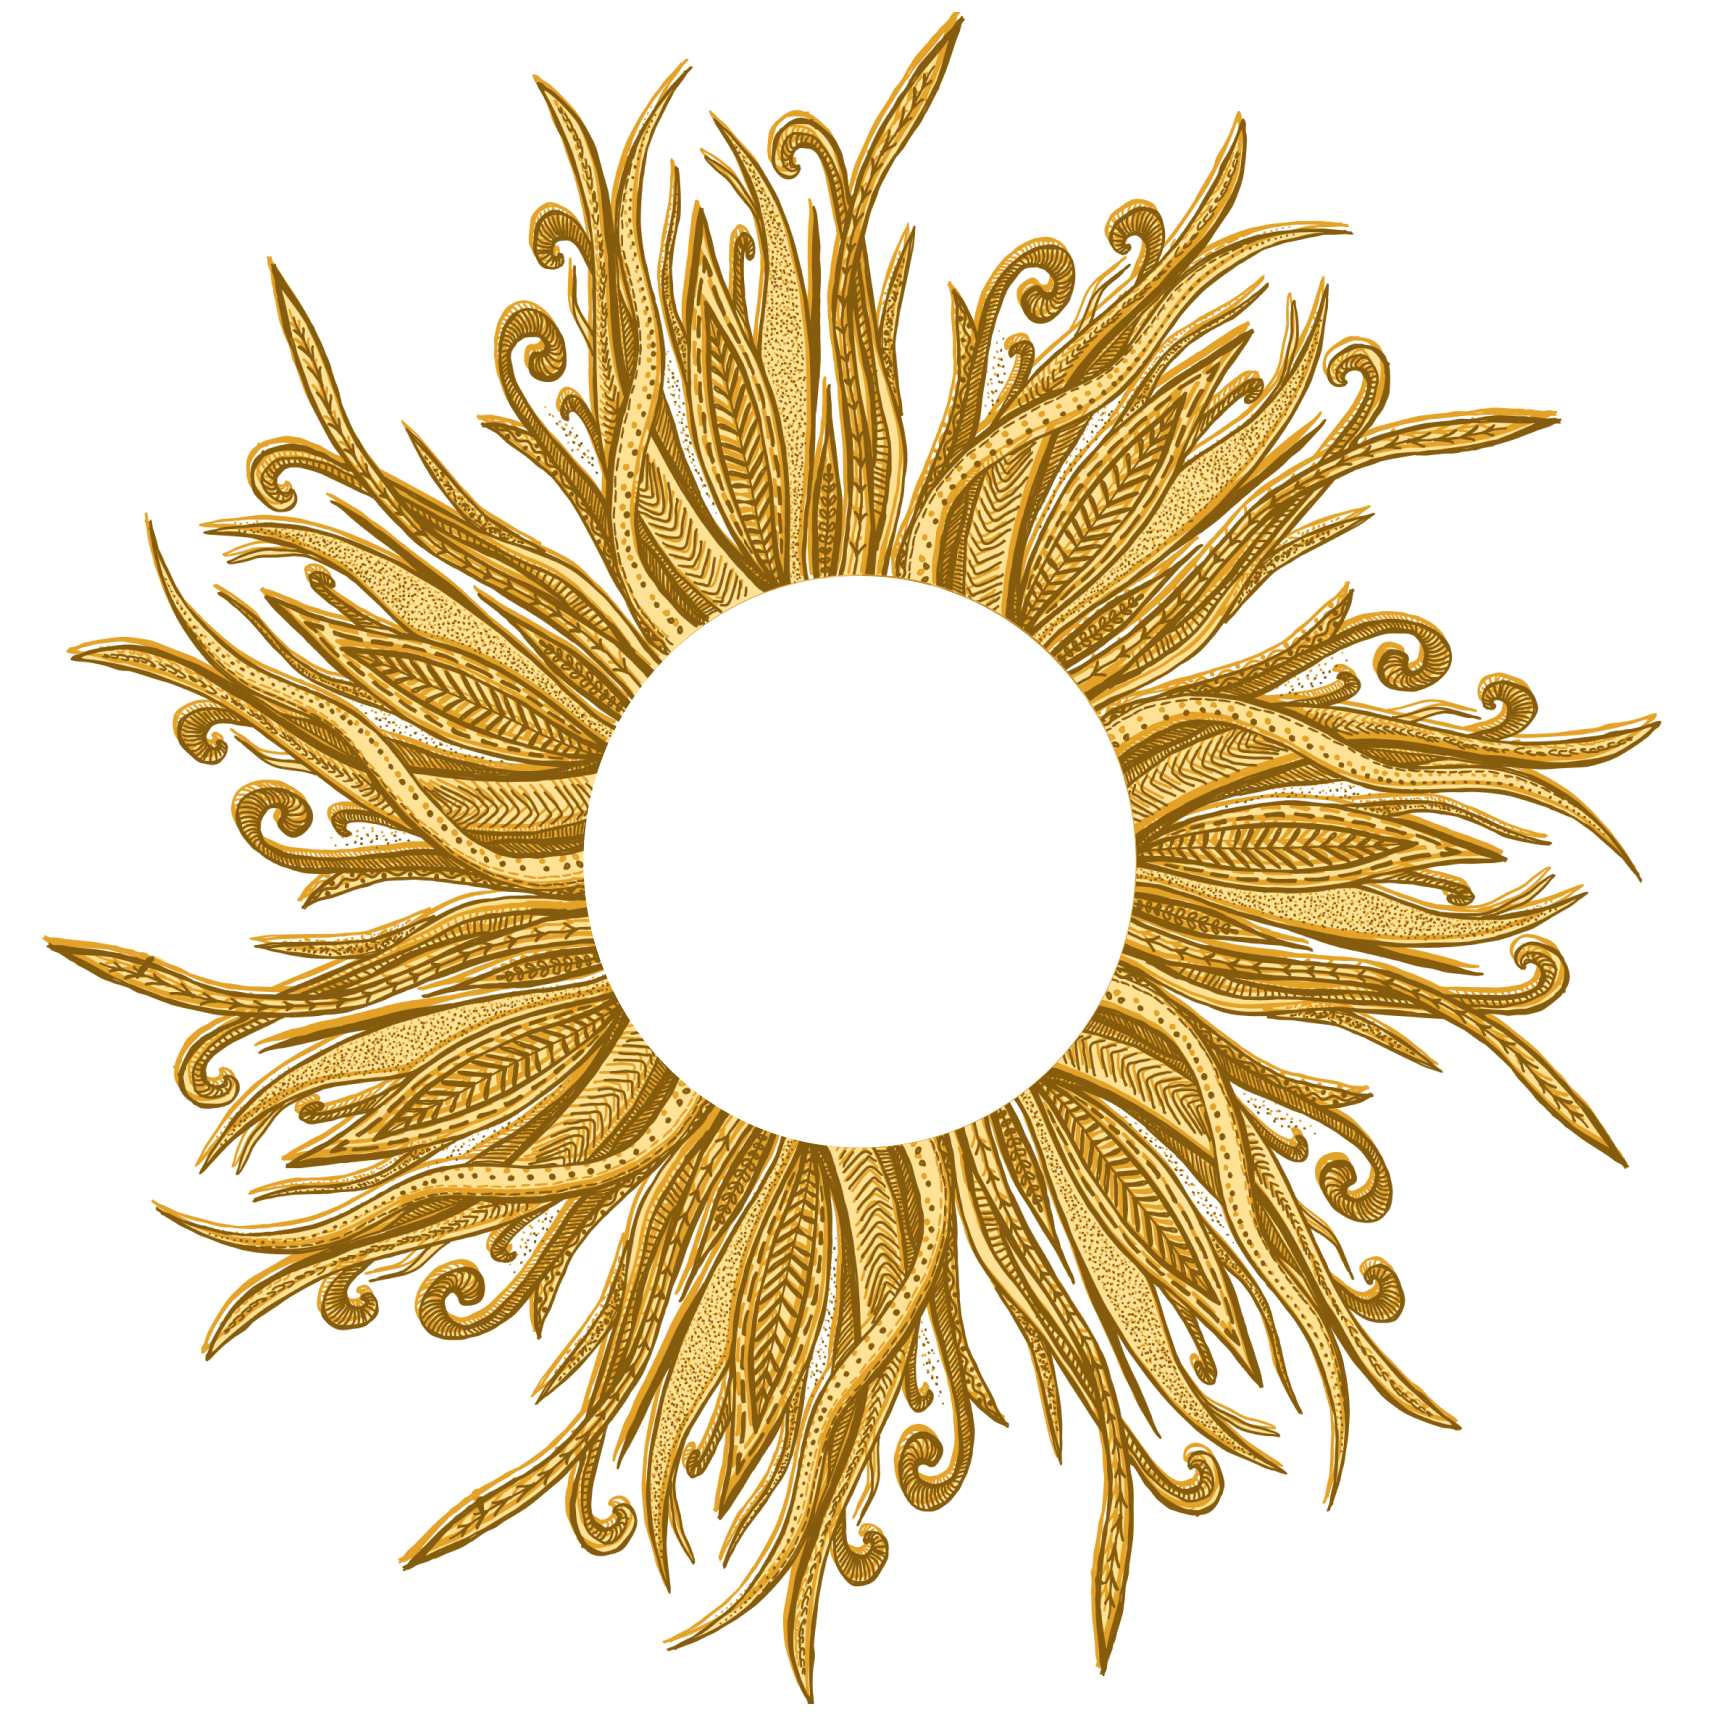
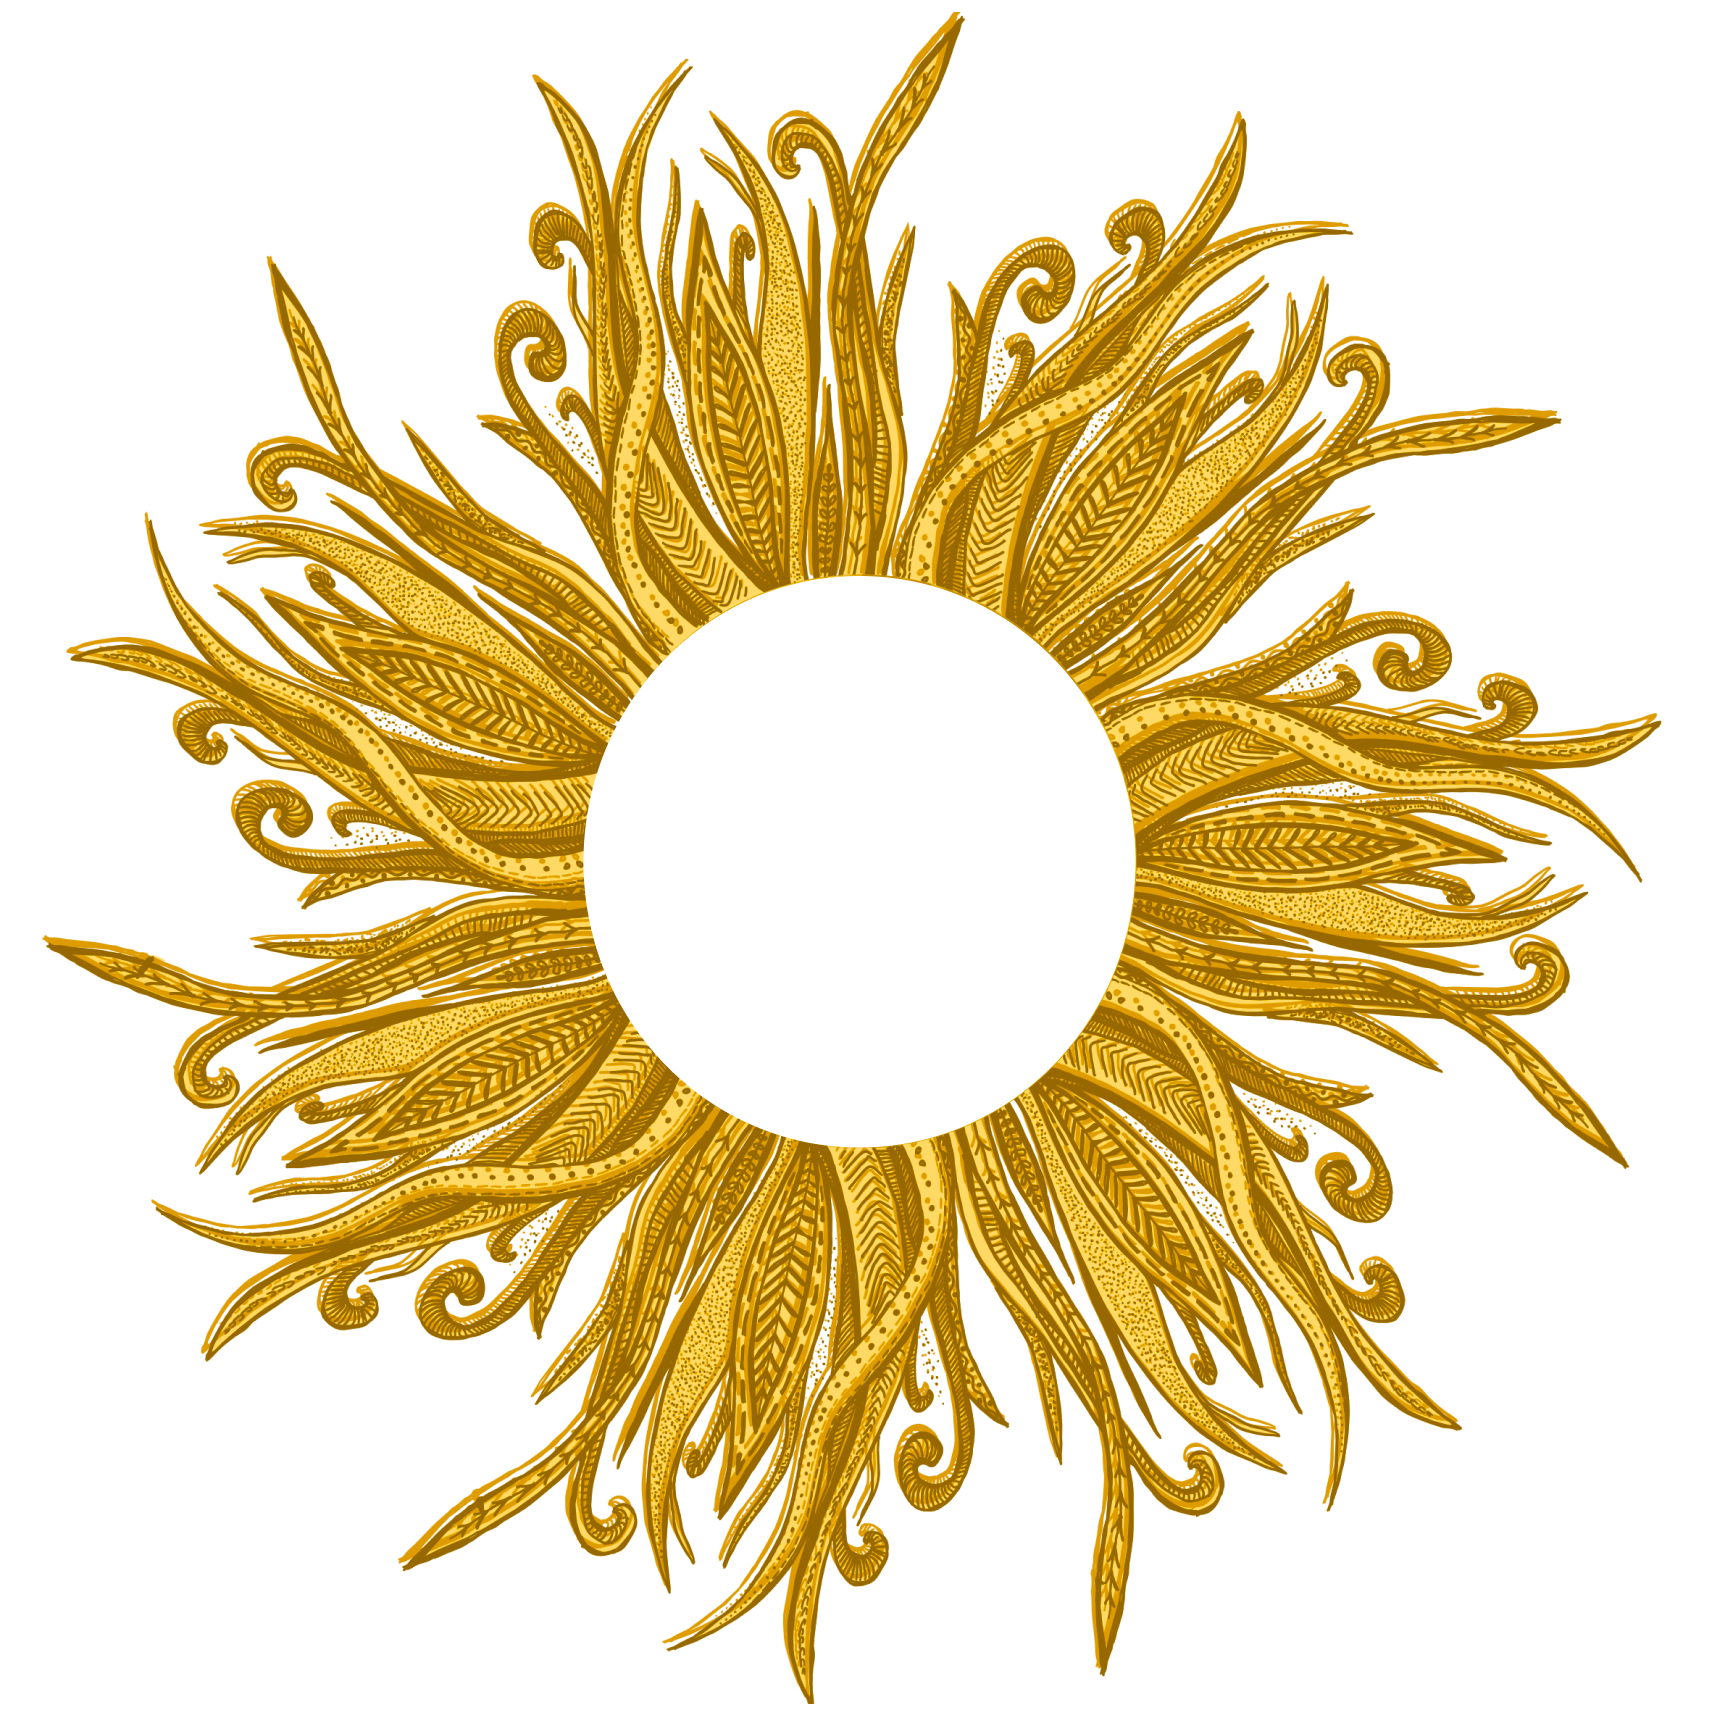
adjust layout,spacing and responsiveness. Also add scroll-fade

Changed region(s): [[0.0308, 0.0, 0.9547, 0.9855]]

diff --git a/frontend/sections/practitionerSection.jsx b/frontend/sections/practitionerSection.jsx
@@ -3,27 +3,42 @@ import styled from 'styled-components';
 
 const PractitionerSection = styled.section`
   display: flex;
-  max-width: 750px;
-  margin: auto;
   width: 100%;
+  flex-wrap: wrap;
+  max-width: 750px;
 `;
+
+const HeadshotContainer = styled.div`
+  position: relative;
+  width: 250px;
+  margin: auto;
+`
 
 const Headshot = styled.img`
   border-radius: 50%;
-  width: 50%;
+  width: 100%;
   height: auto;
   object-fit: contain;
+  position: relative;
 `;
 
+const Bee = styled.img`
+  position: absolute;
+  width: 50px;
+  height: auto;
+  object-fit: contain;
+  bottom: 15px;
+  left: 15px;
+`
+
 const Info = styled.div`
-  text-align: right;
-  margin-left: -80px;
+  text-align: center;
   display: flex;
   flex-direction: column;
-  align-items: flex-end;
-  width: 50%;
+  align-items: center;
+  justify-content: center;
+  margin: auto;
   a {
-    width: auto;
     width: fit-content;
   }
 `;
@@ -31,29 +46,23 @@ const Info = styled.div`
 const Name = styled.h3`
   margin-bottom: 0.5rem;
   position: relative;
-  white-space: nowrap;
 `;
 
 const Description = styled.h5`
   margin-bottom: 1rem;
 `;
 
-const Arrow = styled.img`
-  width: 150px;
-  height: auto;
-  object-fit: contain;
-  margin: 40px auto 32px 32px;
-`;
-
 const Practitioner = ({ name, description, headshot, buttonText, buttonUrl }) => {
   return (
-    <PractitionerSection>
-      {headshot && <Headshot src={headshot} alt={`${name} headshot`} />}
+    <PractitionerSection data-scroll-fade>
+      <HeadshotContainer>
+        <Headshot src={headshot} alt={`${name} headshot`} />
+        <Bee src='/images/bee.png' alt='bee'/>
+      </HeadshotContainer>
       <Info>
-        <Arrow src="/images/arrow.svg" alt="arrow" />
-        {name && <Name>{name}</Name>}
-        {description && <Description>{description}</Description>}
-        {buttonText && buttonUrl && <a href={buttonUrl}>{buttonText}</a>}
+        <Name>{name}</Name>
+        <Description>{description}</Description>
+        <a href={buttonUrl}><h5>{buttonText}</h5></a>
       </Info>
     </PractitionerSection>
   );

diff --git a/frontend/state/hooks/useScrollFade.js b/frontend/state/hooks/useScrollFade.js
@@ -1,0 +1,37 @@
+import { useEffect } from 'react';
+
+const useScrollFade = () => {
+  const scrollFade = () => {
+    const fadeElements = document.querySelectorAll('[data-scroll-fade]');
+    const viewportBottom = window.scrollY + window.innerHeight;
+
+    fadeElements.forEach((element) => {
+      const rect = element.getBoundingClientRect();
+      const elementFourth = rect.height / 2;
+      const fadeInPoint = window.innerHeight - elementFourth;
+
+      if (rect.top <= fadeInPoint) {
+        element.classList.add('scrollFade--visible');
+        element.classList.add('scrollFade--animate');
+        element.classList.remove('scrollFade--hidden');
+      } else {
+        element.classList.remove('scrollFade--visible');
+        element.classList.add('scrollFade--hidden');
+      }
+    });
+  };
+
+  useEffect(() => {
+    document.addEventListener('scroll', scrollFade);
+    window.addEventListener('resize', scrollFade);
+
+    scrollFade();
+
+    return () => {
+      document.removeEventListener('scroll', scrollFade);
+      window.removeEventListener('resize', scrollFade);
+    };
+  }, []);
+};
+
+export default useScrollFade;

diff --git a/frontend/sections/textSection.jsx b/frontend/sections/textSection.jsx
@@ -1,10 +1,20 @@
 import { PortableText } from '@portabletext/react';
 import styled from 'styled-components';
 
+const customComponents = {
+  block: {
+    normal: ({ children }) => <p data-scroll-fade="true">{children}</p>,
+    h1: ({ children }) => <h1 data-scroll-fade="true">{children}</h1>,
+    h2: ({ children }) => <h2 data-scroll-fade="true">{children}</h2>,
+    h3: ({ children }) => <h3 data-scroll-fade="true">{children}</h3>,
+    blockquote: ({ children }) => <blockquote data-scroll-fade="true">{children}</blockquote>,
+  },
+};
+
 const BodyContainer = styled.div`
-  max-width: 650px;
   margin: auto;
   text-align: ${(props) => props.$alignment || 'center'};
+  max-width: 650px;
 
   p:not(:last-child) {
     margin-bottom: 1.5rem;
@@ -21,7 +31,7 @@ const TextSection = ({ heading, showHeading, alignment = 'center', body }) => {
     <section>
       {heading && showHeading && <Heading $alignment={alignment}>{heading}</Heading>}
       <BodyContainer $alignment={alignment}>
-        <PortableText value={body} />
+        <PortableText value={body} components={customComponents} />
       </BodyContainer>
     </section>
   );

diff --git a/frontend/styles/globals.css b/frontend/styles/globals.css
@@ -1,6 +1,9 @@
+@import url('./scroll-fade.css');
+
 :root {
   --background: #374220;
   --foreground: #CABB94;
+  --accent: #EABB4D;
 }
 
 html,
@@ -46,20 +49,20 @@ h4 {
 
 h5 {
   font-family: var(--font-montserrat);
-  font-size: 26px;
+  font-size: 24px;
   font-weight: normal;
 }
 
 p, a, button {
   font-family: var(--font-montserrat);
-  font-size: 16px;
+  font-size: 18px;
 }
 
 a {
-  color: inherit;
+  color: var(--accent);
   text-decoration: none;
   padding-bottom: 6px;
-  border-bottom: 1px solid var(--foreground);
+  border-bottom: 1px solid var(--accent);
 }
 
 button {
@@ -79,5 +82,5 @@ button:hover {
 }
 
 section {
-  margin: 24px 0;
+  margin: 64px auto;
 }

diff --git a/frontend/styles/scroll-fade.css b/frontend/styles/scroll-fade.css
@@ -1,0 +1,12 @@
+.scrollFade--hidden {
+  opacity: 0;
+  transition: opacity 0.5s ease-in-out;
+}
+
+.scrollFade--visible {
+  opacity: 1;
+}
+
+.scrollFade--animate {
+  transition: opacity 0.5s ease-in-out;
+}

diff --git a/frontend/sections/footer.jsx b/frontend/sections/footer.jsx
@@ -1,9 +1,10 @@
 import styled from "styled-components";
 
-const Section = styled.section`
+const FooterContainer = styled.div`
   display: grid;
   grid-template-columns: repeat(3, 1fr);
   gap: 24px;
+  margin: 64px;
 `
 
 const Decal = styled.img`
@@ -26,6 +27,7 @@ const LinkList = styled.div`
   display: flex;
   flex-direction: column;
   a {
+    color: inherit;
     padding: 0;
     border: none;
   }
@@ -33,7 +35,7 @@ const LinkList = styled.div`
 
 const Footer = () => {
   return (
-    <Section>
+    <FooterContainer>
       <Decal src="/images/lavender.png" alt="lav" />
       <LinkListContainer>
         <LinkList>
@@ -49,7 +51,7 @@ const Footer = () => {
         </LinkList>
       </LinkListContainer>
       <Logo src="/images/logo.svg" alt="logo" />
-    </Section>
+    </FooterContainer>
   );
 }
  

diff --git a/frontend/pages/[slug].jsx b/frontend/pages/[slug].jsx
@@ -1,5 +1,6 @@
 import groq from 'groq';
 import client from '../client';
+import HomeSection from '../sections/homeSection';
 import TitleSection from '../sections/titleSection';
 import TextSection from '../sections/textSection';
 import Cta from '../sections/cta';
@@ -11,11 +12,13 @@ const Page = ({ page }) => {
     return <div>Loading...</div>;
   }
   const { title, pageBuilder } = page;
-  console.log(pageBuilder);
   return (
     <div>
       <article>
-        <TitleSection heading={title}/>
+        { title === "LIVWELL"
+            ? <HomeSection />
+            : <TitleSection heading={title}/>
+        }
         {pageBuilder && pageBuilder.map((block, index) => {
           if (block._type === 'textSection') {
             return (

diff --git a/frontend/sections/cta.jsx b/frontend/sections/cta.jsx
@@ -27,8 +27,10 @@ const BgImage = styled.img`
 const Cta = () => {
   return (
     <Section>
-      <h2>Begin your<br/>journey</h2>
-      <a>Discover now</a>
+      <div data-scroll-fade>
+        <h2>Get in touch</h2>
+        <a><h5>Contact</h5></a>
+      </div>
       <BgImage
         src="/images/leaf.png"
         alt="background"

diff --git a/frontend/pages/_app.jsx b/frontend/pages/_app.jsx
@@ -1,5 +1,6 @@
 import '../styles/globals.css'
 import { Averia_Serif_Libre, Montserrat } from 'next/font/google'
+import useScrollFade from '../state/hooks/useScrollFade';
 
 export const averia = Averia_Serif_Libre({
   subsets: ['latin'],
@@ -16,6 +17,7 @@ export const montserrat = Montserrat({
 
 
 export default function App({ Component, pageProps }) {
+  useScrollFade();
   return (
     <main className={`${averia.variable} ${montserrat.variable}`}>
       <Component {...pageProps} />